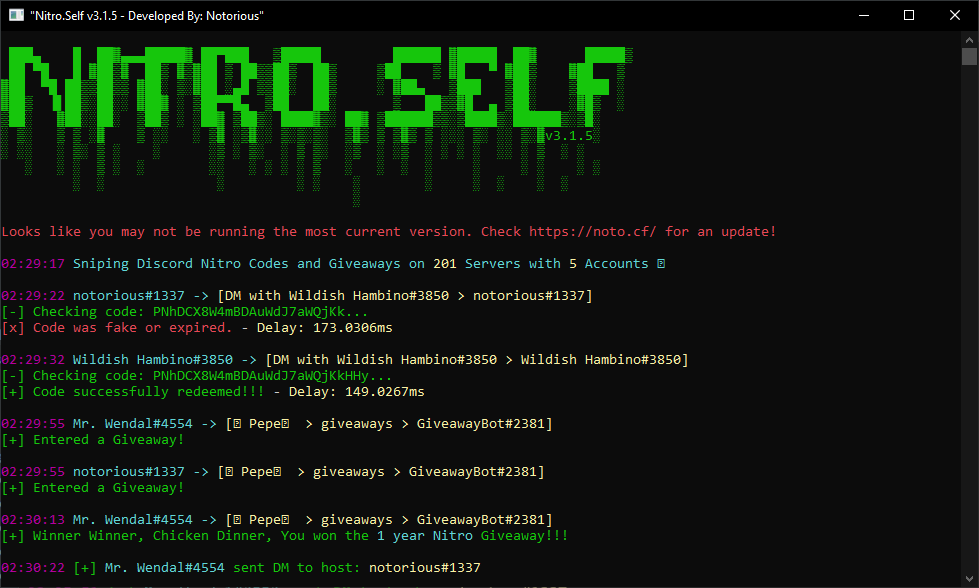
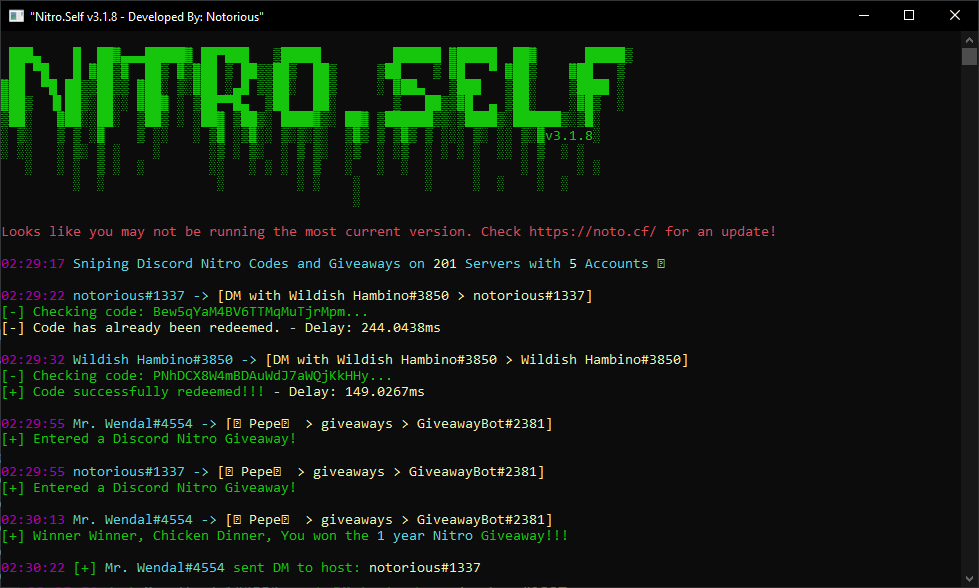
.

diff --git a/sniper.go b/sniper.go
@@ -64,6 +64,7 @@ var (
 	startT            time.Time
 	endT              time.Duration
 	wg                sync.WaitGroup
+	wHookURL          string
 )
 
 type Thread struct {
@@ -316,6 +317,9 @@ func (e *Thread) MessageCreate(s *discordgo.Session, m *discordgo.MessageCreate)
 				//_, _ = hired.Print("[=] Auto-detected a fake code: ")
 				//_, _ = hired.Print(code[2])
 				//_, _ = fmt.Println(" from " + m.Author.String())
+				return
+			}
+			if len(code[2]) > 24 {
 				return
 			}
 
